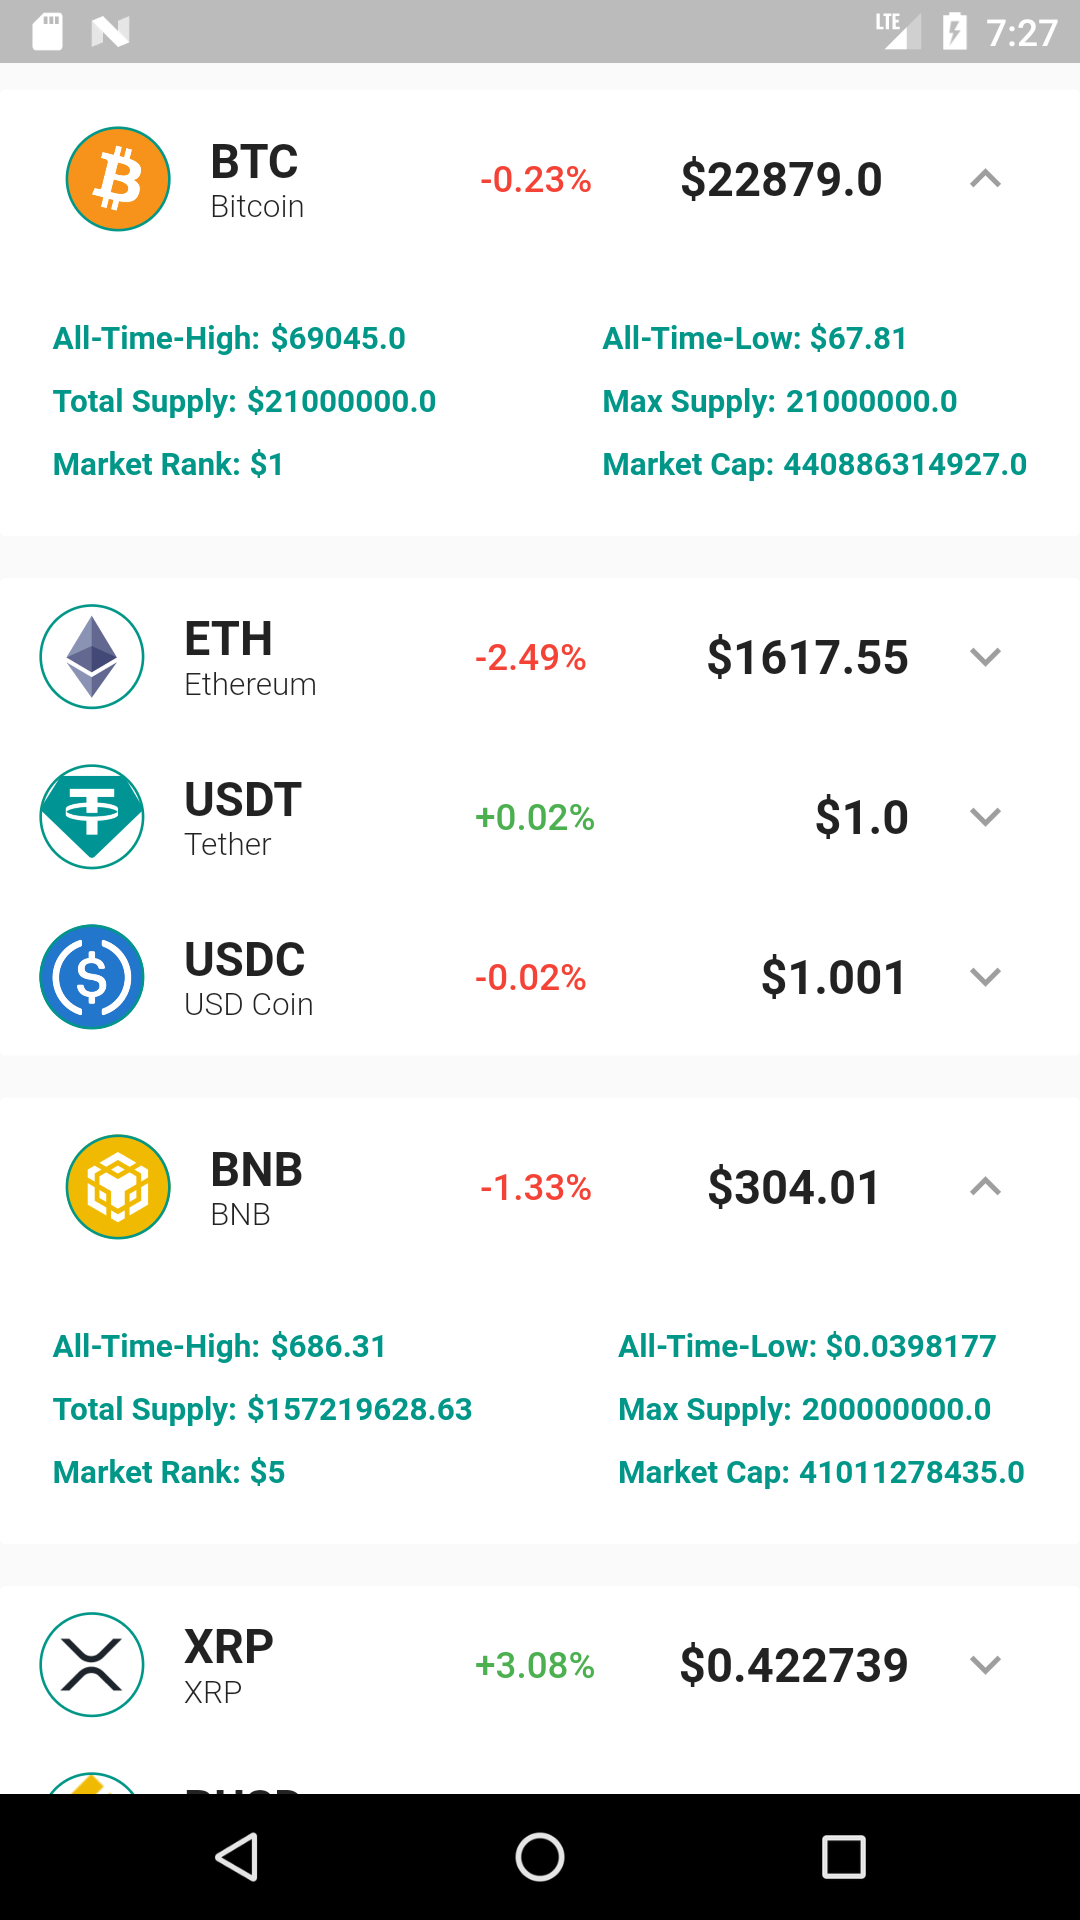
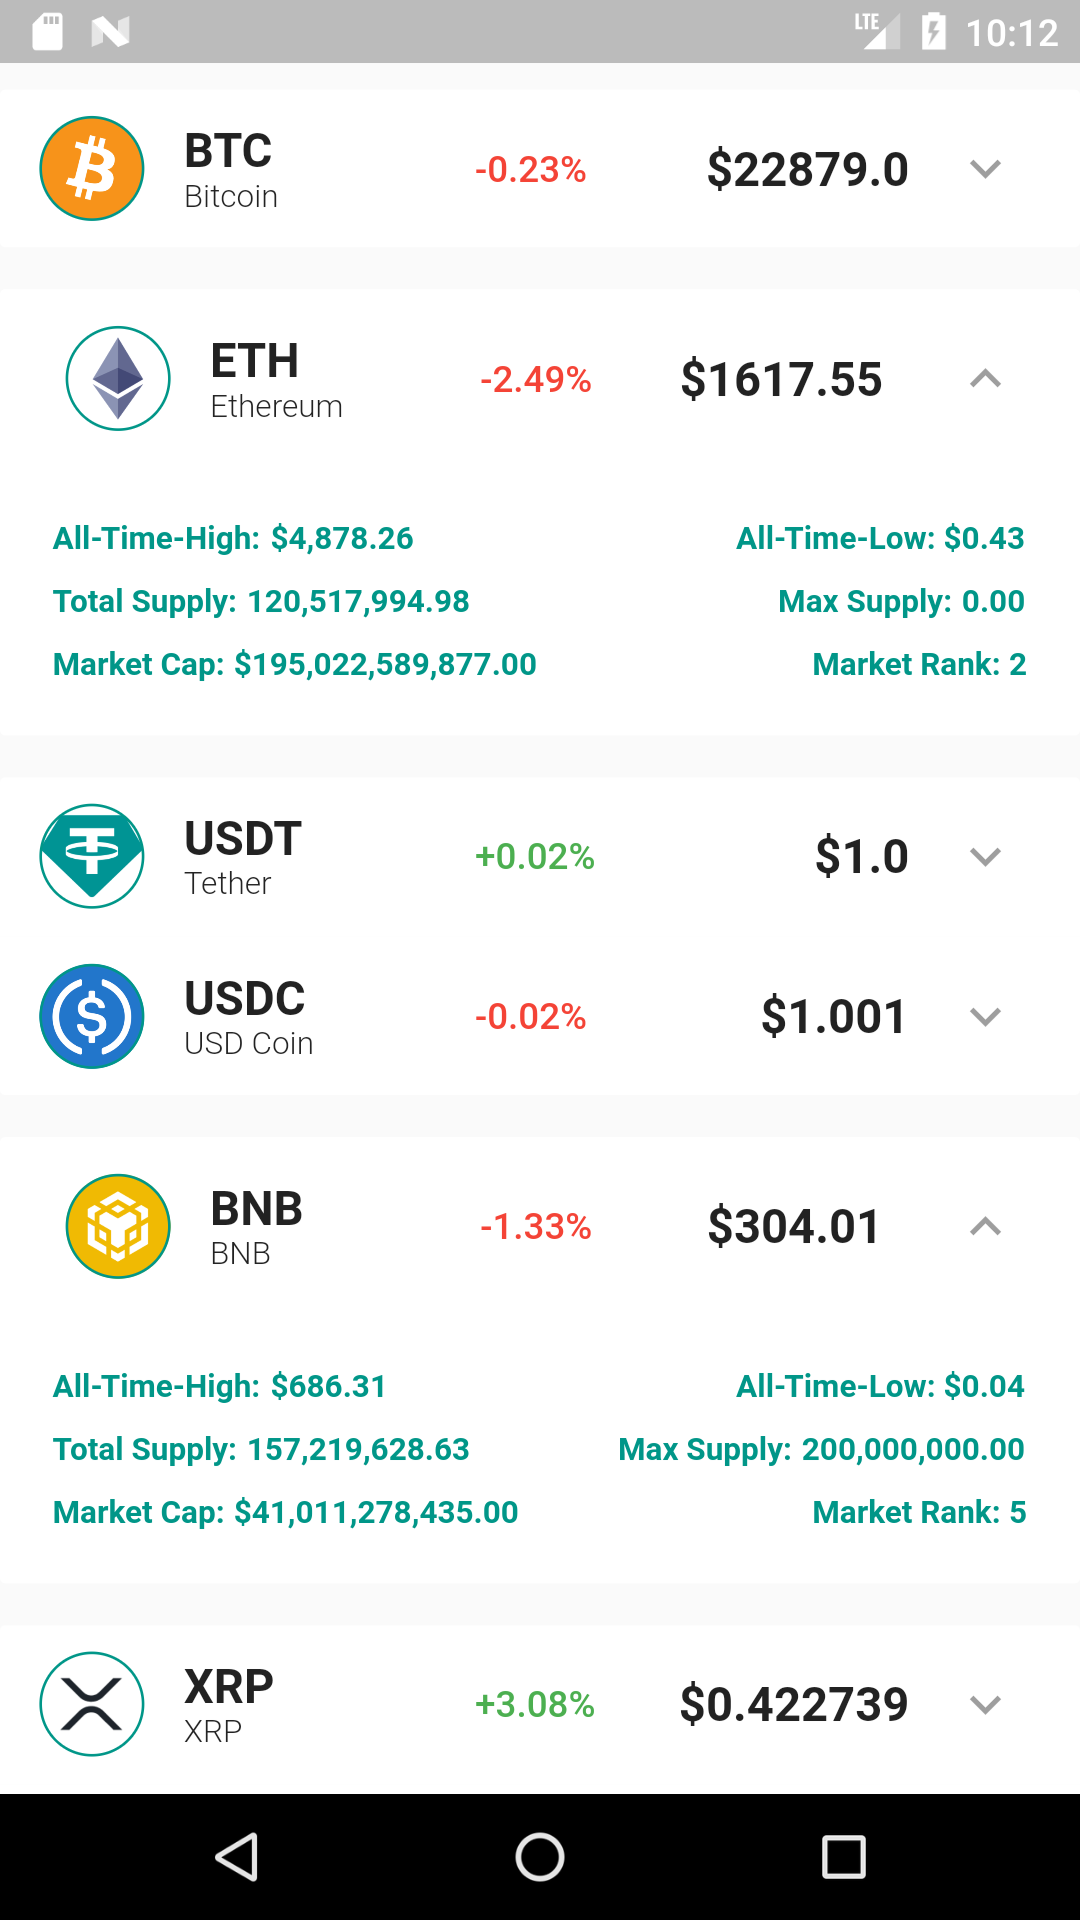
formatted numbers

diff --git a/lib/src/features/coin_details/presentation/screens/coins_list_page.dart b/lib/src/features/coin_details/presentation/screens/coins_list_page.dart
@@ -1,5 +1,6 @@
 import 'package:coin_tracker/src/common/app_typography.dart';
 import 'package:coin_tracker/src/features/coin_details/presentation/controllers/coin_controller.dart';
+import 'package:coin_tracker/src/utils/extensions.dart';
 import 'package:flutter/material.dart';
 import 'package:flutter_riverpod/flutter_riverpod.dart';
 
@@ -171,7 +172,8 @@ class CoinsHomepage extends StatelessWidget {
                                               Text('All-Time-High: ',
                                                   style: AppTypography
                                                       .expandedText),
-                                              Text('\$${coinmodel.ath}',
+                                              Text(
+                                                  '\$${coinmodel.ath.formattedNumber}',
                                                   style: AppTypography
                                                       .expandedText),
                                             ],
@@ -186,55 +188,9 @@ class CoinsHomepage extends StatelessWidget {
                                               Text('Total Supply: ',
                                                   style: AppTypography
                                                       .expandedText),
-                                              Text('\$${coinmodel.totalSupply}',
-                                                  style: AppTypography
-                                                      .expandedText),
-                                            ],
-                                          ),
-                                          const SizedBox(
-                                            height: 10,
-                                          ),
-                                          Row(
-                                            mainAxisAlignment:
-                                                MainAxisAlignment.start,
-                                            children: [
-                                              Text('Market Rank: ',
-                                                  style: AppTypography
-                                                      .expandedText),
-                                              Text('\$${coinmodel.marketRank}',
-                                                  style: AppTypography
-                                                      .expandedText),
-                                            ],
-                                          ),
-                                        ],
-                                      ),
-                                      Column(
-                                        crossAxisAlignment:
-                                            CrossAxisAlignment.start,
-                                        children: [
-                                          Row(
-                                            mainAxisAlignment:
-                                                MainAxisAlignment.start,
-                                            children: [
-                                              Text('All-Time-Low: ',
-                                                  style: AppTypography
-                                                      .expandedText),
-                                              Text('\$${coinmodel.atl}',
-                                                  style: AppTypography
-                                                      .expandedText),
-                                            ],
-                                          ),
-                                          const SizedBox(
-                                            height: 10,
-                                          ),
-                                          Row(
-                                            mainAxisAlignment:
-                                                MainAxisAlignment.start,
-                                            children: [
-                                              Text('Max Supply: ',
-                                                  style: AppTypography
-                                                      .expandedText),
-                                              Text('${coinmodel.maxSupply}',
+                                              Text(
+                                                  coinmodel.totalSupply
+                                                      .formattedNumber,
                                                   style: AppTypography
                                                       .expandedText),
                                             ],
@@ -249,7 +205,59 @@ class CoinsHomepage extends StatelessWidget {
                                               Text('Market Cap: ',
                                                   style: AppTypography
                                                       .expandedText),
-                                              Text('${coinmodel.marketCap}',
+                                              Text(
+                                                  '\$${coinmodel.marketCap.formattedNumber}',
+                                                  style: AppTypography
+                                                      .expandedText),
+                                            ],
+                                          ),
+                                        ],
+                                      ),
+                                      Column(
+                                        crossAxisAlignment:
+                                            CrossAxisAlignment.end,
+                                        children: [
+                                          Row(
+                                            mainAxisAlignment:
+                                                MainAxisAlignment.start,
+                                            children: [
+                                              Text('All-Time-Low: ',
+                                                  style: AppTypography
+                                                      .expandedText),
+                                              Text(
+                                                  '\$${coinmodel.atl.formattedNumber}',
+                                                  style: AppTypography
+                                                      .expandedText),
+                                            ],
+                                          ),
+                                          const SizedBox(
+                                            height: 10,
+                                          ),
+                                          Row(
+                                            mainAxisAlignment:
+                                                MainAxisAlignment.start,
+                                            children: [
+                                              Text('Max Supply: ',
+                                                  style: AppTypography
+                                                      .expandedText),
+                                              Text(
+                                                  coinmodel.maxSupply
+                                                      .formattedNumber,
+                                                  style: AppTypography
+                                                      .expandedText),
+                                            ],
+                                          ),
+                                          const SizedBox(
+                                            height: 10,
+                                          ),
+                                          Row(
+                                            mainAxisAlignment:
+                                                MainAxisAlignment.start,
+                                            children: [
+                                              Text('Market Rank: ',
+                                                  style: AppTypography
+                                                      .expandedText),
+                                              Text('${coinmodel.marketRank}',
                                                   style: AppTypography
                                                       .expandedText),
                                             ],

diff --git a/lib/src/utils/extensions.dart b/lib/src/utils/extensions.dart
@@ -1,0 +1,11 @@
+import 'dart:io';
+
+import 'package:intl/intl.dart';
+
+extension FormattedNumber on double {
+  String get formattedNumber {
+    final dynamic c;
+    c = NumberFormat("#,##0.00", Platform.localeName);
+    return c.format(this);
+  }
+}
